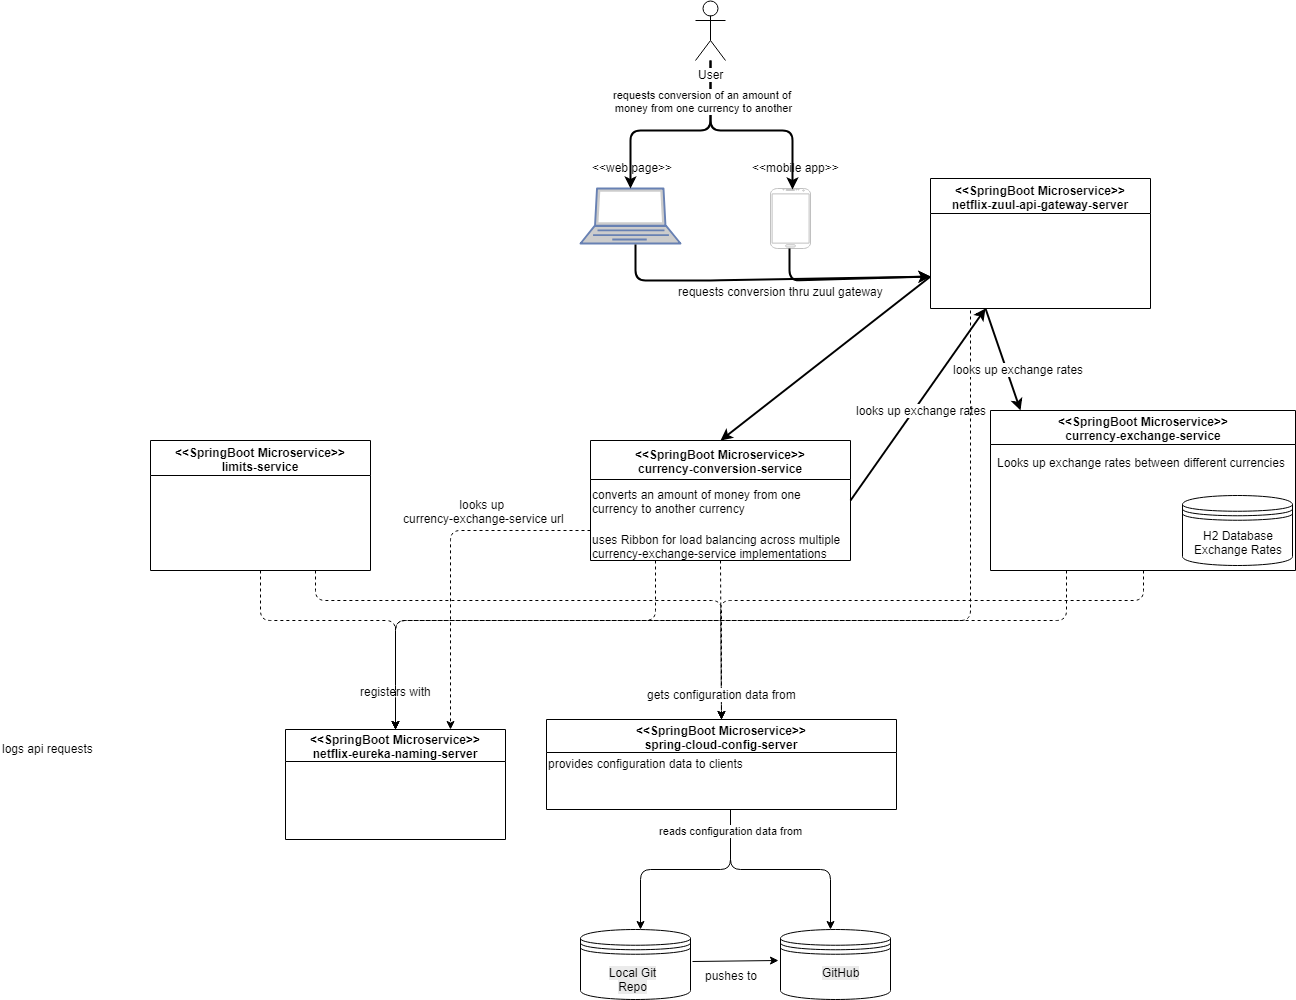
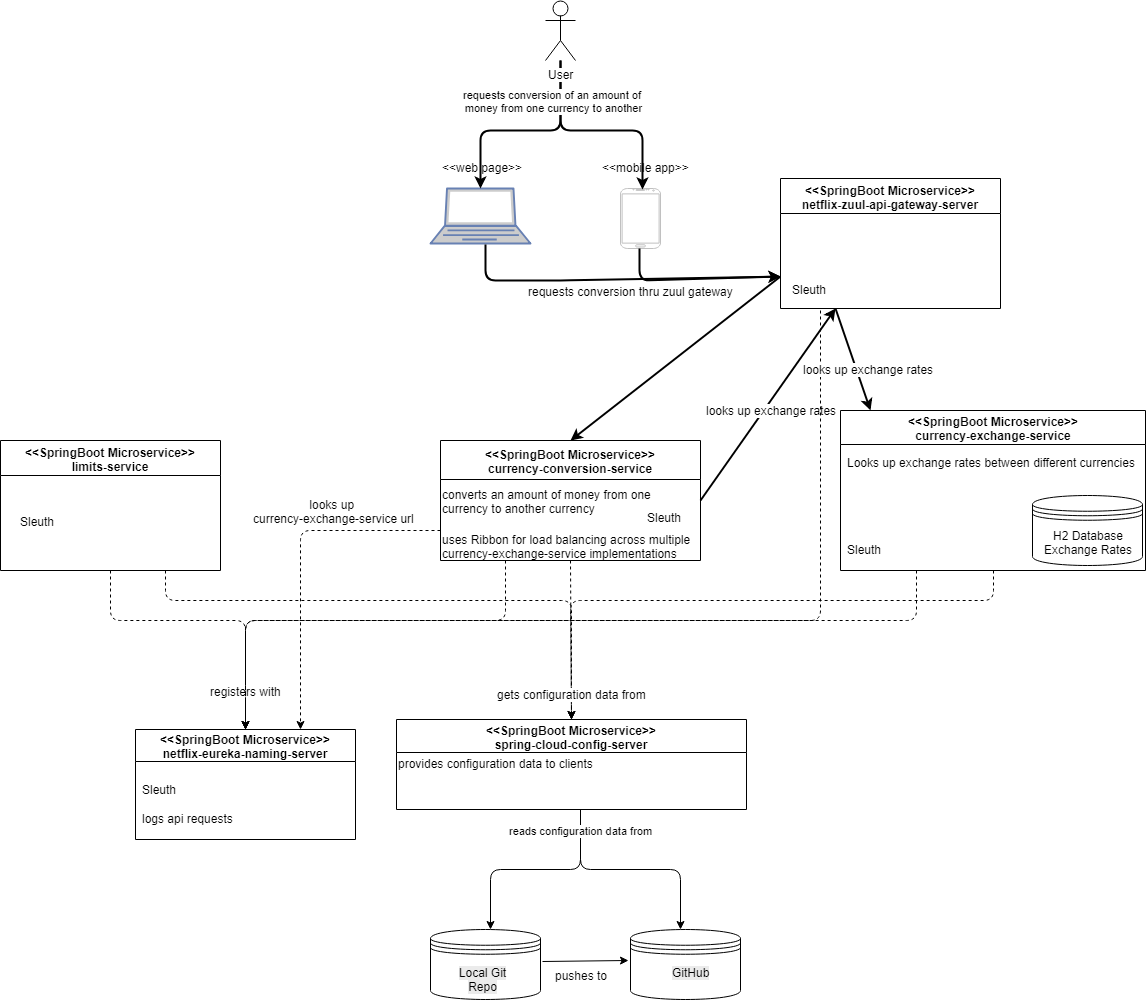
Added in Spring Cloud Sleuth for distributed log tracing

diff --git a/.readme.md.html b/.readme.md.html
@@ -671,7 +671,7 @@ function setDocumentScrollTop(ypos)
    <li>Spring Cloud Config - compile('org.springframework.cloud:spring-cloud-starter-config')</li> 
   </ul> </li> 
  <li> <p>H2 in-memory database - compile('com.h2database:h2')</p> </li> 
- <li> <p>Feign Rest Client</p> 
+ <li> <p>Feign Rest Client to make REST calls easier</p> 
   <ul> 
    <li>a declarative HTTP client developed by Netflix that makes calling other microservices much easier.</li> 
    <li>provides integration with Ribbon client side load balancing.</li> 
@@ -679,7 +679,7 @@ function setDocumentScrollTop(ypos)
    <li><a href="https://www.baeldung.com/intro-to-feign" rel="nofollow">https://www.baeldung.com/intro-to-feign</a></li> 
    <li>compile('org.springframework.cloud:spring-cloud-starter-openfeign')</li> 
   </ul> </li> 
- <li> <p>Ribbon</p> 
+ <li> <p>Ribbon for Load Balancing</p> 
   <ul> 
    <li>Netflix component for load balancing.</li> 
    <li>Ribbon is a Inter Process Communication (remote procedure calls) library with built in software load balancers. The primary usage model involves REST calls with various serialization scheme support.</li> 
@@ -705,6 +705,18 @@ function setDocumentScrollTop(ypos)
    <li>compile('org.springframework.cloud:spring-cloud-starter-netflix-zuul')</li> 
    <li>Zuul the Gatekeeper of Gozer is a demigod and minion of Gozer, The Destructor, alongside Vinz Clortho the Keymaster. It possessed Dana Barrett in Ghostbusters.</li> 
   </ul> </li> 
+ <li> <p>Distributed Tracing with Spring Cloud Sleuth</p> 
+  <ul> 
+   <li><a href="https://cloud.spring.io/spring-cloud-sleuth/" rel="nofollow">https://cloud.spring.io/spring-cloud-sleuth/</a></li> 
+   <li><a href="https://www.baeldung.com/spring-cloud-sleuth-single-application" rel="nofollow">https://www.baeldung.com/spring-cloud-sleuth-single-application</a></li> 
+   <li>Unique id for tracking requests</li> 
+   <li>compile 'org.springframework.cloud:spring-cloud-starter-sleuth'</li> 
+  </ul> </li> 
+ <li> <p>Zipkin - centralized logging.</p> 
+  <ul> 
+   <li><a href="https://spring.io/blog/2016/02/15/distributed-tracing-with-spring-cloud-sleuth-and-spring-cloud-zipkin" rel="nofollow">https://spring.io/blog/2016/02/15/distributed-tracing-with-spring-cloud-sleuth-and-spring-cloud-zipkin</a></li> 
+   <li><a href="https://www.baeldung.com/tracing-services-with-zipkin" rel="nofollow">https://www.baeldung.com/tracing-services-with-zipkin</a></li> 
+  </ul> </li> 
  <li> <p>Flyway</p> </li> 
  <li> <p>Continuous Delivery and Deployment to AWS, Google Cloud, Pivotal Cloud</p> </li> 
  <li> <p>Auto scaling, Erueka naming server, Ribbon</p> </li> 
@@ -712,8 +724,6 @@ function setDocumentScrollTop(ypos)
  <li> <p>In-memory Redis caching</p> </li> 
  <li> <p>Dockerized containers, Kubernetes orchestration</p> </li> 
  <li> <p>Github web and issue tracking</p> </li> 
- <li> <p>Spring Cloud Sleuth</p> </li> 
- <li> <p>Spring, Spring Boot, Spring Cloud Config Server, Spring Data, Spring Cloud Slueth</p> </li> 
  <li> <p>In-memory Databases, MySQL, Postgres</p> </li> 
  <li> <p>Swagger api docs</p> </li> 
  <li> <p>Zuul API Gateway</p> </li> 

diff --git a/readme.md b/readme.md
@@ -40,14 +40,14 @@ might have been used to do initial design and requirements gathering were this a
     
   * H2 in-memory database - compile('com.h2database:h2')
   
-  * Feign Rest Client
+  * Feign Rest Client to make REST calls easier
     * a declarative HTTP client developed by Netflix that makes calling other microservices much easier.
     * provides integration with Ribbon client side load balancing.
     * https://cloud.spring.io/spring-cloud-netflix/multi/multi_spring-cloud-feign.html
     * https://www.baeldung.com/intro-to-feign
     * compile('org.springframework.cloud:spring-cloud-starter-openfeign')
   
-  * Ribbon
+  * Ribbon for Load Balancing
     * Netflix component for load balancing.
     * Ribbon is a Inter Process Communication (remote procedure calls) library with built in software load balancers. The primary usage model involves REST calls with various serialization scheme support.
     * https://cloud.spring.io/spring-cloud-netflix/multi/multi_spring-cloud-ribbon.html
@@ -70,6 +70,17 @@ might have been used to do initial design and requirements gathering were this a
     * compile('org.springframework.cloud:spring-cloud-starter-netflix-zuul')
     * Zuul the Gatekeeper of Gozer is a demigod and minion of Gozer, The Destructor, alongside Vinz Clortho the Keymaster. It possessed Dana Barrett in Ghostbusters.
   
+  * Distributed Tracing with Spring Cloud Sleuth 
+    * https://cloud.spring.io/spring-cloud-sleuth/
+    * https://www.baeldung.com/spring-cloud-sleuth-single-application
+  	* Unique id for tracking requests
+  	* compile 'org.springframework.cloud:spring-cloud-starter-sleuth'
+  	 
+  * Zipkin - centralized logging.
+    * https://spring.io/blog/2016/02/15/distributed-tracing-with-spring-cloud-sleuth-and-spring-cloud-zipkin
+    * https://www.baeldung.com/tracing-services-with-zipkin
+  
+  
   * Flyway  
   * Continuous Delivery and Deployment to AWS, Google Cloud, Pivotal Cloud
   * Auto scaling, Erueka naming server, Ribbon
@@ -77,8 +88,6 @@ might have been used to do initial design and requirements gathering were this a
   * In-memory Redis caching
   * Dockerized containers, Kubernetes orchestration
   * Github web and issue tracking
-  * Spring Cloud Sleuth
-  * Spring, Spring Boot, Spring Cloud Config Server, Spring Data, Spring Cloud Slueth
   * In-memory Databases, MySQL, Postgres
   * Swagger api docs
   * Zuul API Gateway
